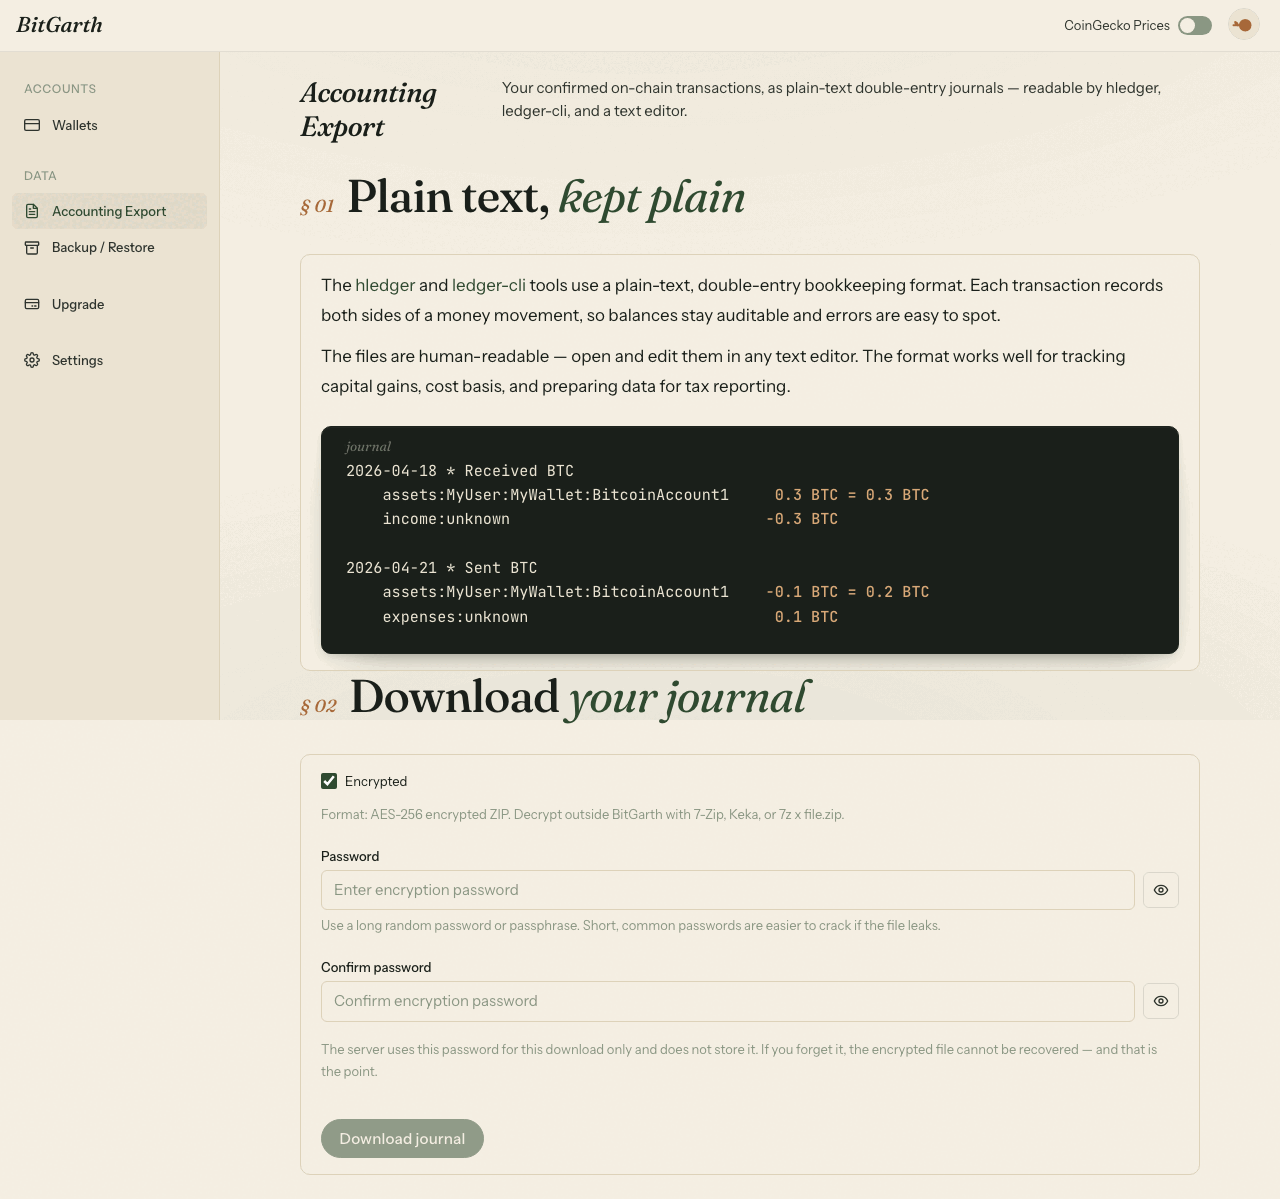
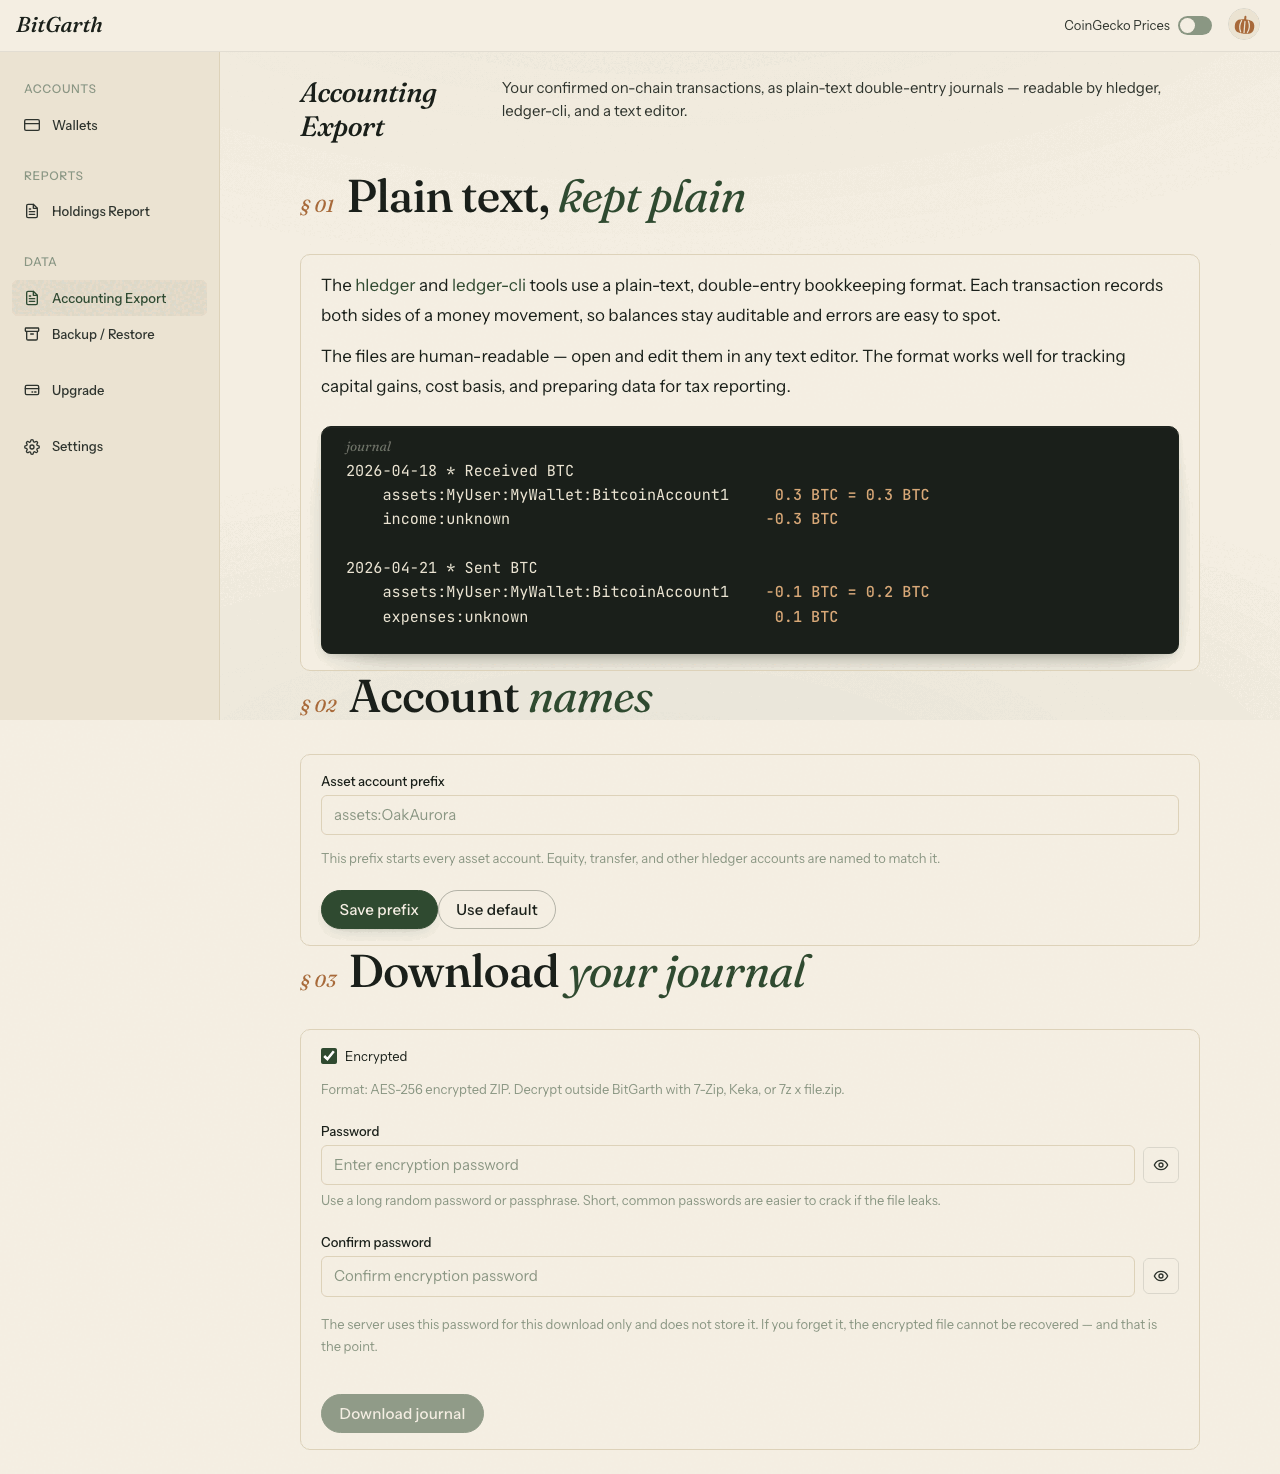
BitGarth v0.1.9

diff --git a/index.html b/index.html
@@ -878,10 +878,38 @@
       object-position: top;
       display: block;
     }
+    /* lead (aggregate) shot sits above the drilldown pair, same width */
+    .shot-lead { max-width: 60rem; margin-inline: auto; }
+    .shot-lead .shot-frame { aspect-ratio: 16 / 9; }
+
+    /* connector: encodes the drilldown from all-wallets to one wallet */
+    .shot-drill {
+      display: grid;
+      justify-items: center;
+      gap: 0.3rem;
+      margin: var(--space-4) 0;
+      color: color-mix(in srgb, var(--ink) 52%, transparent);
+    }
+    .shot-drill::before {
+      content: "";
+      width: 1px;
+      height: 1.5rem;
+      background: color-mix(in srgb, var(--ink) 20%, transparent);
+    }
+    .shot-drill-label {
+      font-family: var(--display);
+      font-style: italic;
+      font-size: 0.92rem;
+      letter-spacing: 0.01em;
+    }
+    .shot-drill svg { display: block; opacity: 0.75; }
+
     .shot-pair {
       display: grid;
       gap: var(--space-5);
       grid-template-columns: 1fr;
+      max-width: 60rem;
+      margin-inline: auto;
     }
     @media (min-width: 860px) {
       .shot-pair { grid-template-columns: 1fr 1fr; }
@@ -1611,19 +1639,49 @@
         </div>
 
         <div class="tabpanel" id="panel-shot-reports" role="tabpanel" aria-labelledby="tab-shot-reports" tabindex="0" hidden>
+          <figure class="shot shot-lead">
+            <div class="shot-bar" aria-hidden="true"><span class="dot"></span><span class="dot"></span><span class="dot"></span></div>
+            <button class="shot-frame" type="button" data-zoom
+                    aria-label="View larger: the 2024 holdings report across all wallets"
+                    data-webp="assets/screenshots/holdings-report-2024.webp"
+                    data-png="assets/screenshots/holdings-report-2024.png"
+                    data-cap="Holdings — every wallet, one number"
+                    data-alt="A 2024 holdings report totalling every wallet: €30,712 opening, €65,331 closing — up 112% on the year.">
+              <picture>
+                <source srcset="assets/screenshots/holdings-report-2024.webp" type="image/webp" />
+                <img src="assets/screenshots/holdings-report-2024.png" width="1280" height="720" loading="lazy" decoding="async"
+                     alt="A 2024 holdings report totalling every wallet: €30,712 opening, €65,331 closing — up 112% on the year." />
+              </picture>
+              <span class="zoom-cue" aria-hidden="true">
+                <svg viewBox="0 0 24 24" fill="none" width="18" height="18">
+                  <circle cx="11" cy="11" r="6.5" stroke="currentColor" stroke-width="1.4"/>
+                  <path d="M16 16l4.5 4.5" stroke="currentColor" stroke-width="1.4" stroke-linecap="round"/>
+                  <path d="M11 8.5v5M8.5 11h5" stroke="currentColor" stroke-width="1.4" stroke-linecap="round"/>
+                </svg>
+              </span>
+            </button>
+          </figure>
+
+          <div class="shot-drill" aria-hidden="true">
+            <span class="shot-drill-label">drill into any wallet</span>
+            <svg viewBox="0 0 16 16" width="15" height="15" fill="none">
+              <path d="M8 2.5v10M4 8.5l4 4 4-4" stroke="currentColor" stroke-width="1.3" stroke-linecap="round" stroke-linejoin="round"/>
+            </svg>
+          </div>
+
           <div class="shot-pair">
             <figure class="shot">
               <div class="shot-bar" aria-hidden="true"><span class="dot"></span><span class="dot"></span><span class="dot"></span></div>
               <button class="shot-frame" type="button" data-zoom
-                      aria-label="View larger: the 2024 wallet report"
+                      aria-label="View larger: Garth's Main Wallet, 2024"
                       data-webp="assets/screenshots/report-2024.webp"
                       data-png="assets/screenshots/report-2024.png"
-                      data-cap="2024 — a green year"
-                      data-alt="A 2024 wallet report showing opening and closing values with gains across every account.">
+                      data-cap="2024 — inside one wallet, a green year"
+                      data-alt="The 2024 report drilled into Garth's Main Wallet, showing Bitcoin, Ethereum and Monero accounts all up on the year.">
                 <picture>
                   <source srcset="assets/screenshots/report-2024.webp" type="image/webp" />
-                  <img src="assets/screenshots/report-2024.png" width="1280" height="771" loading="lazy" decoding="async"
-                       alt="A 2024 wallet report showing opening and closing values with gains across every account." />
+                  <img src="assets/screenshots/report-2024.png" width="1280" height="740" loading="lazy" decoding="async"
+                       alt="The 2024 report drilled into Garth's Main Wallet, showing Bitcoin, Ethereum and Monero accounts all up on the year." />
                 </picture>
                 <span class="zoom-cue" aria-hidden="true">
                   <svg viewBox="0 0 24 24" fill="none" width="18" height="18">
@@ -1637,15 +1695,15 @@
             <figure class="shot">
               <div class="shot-bar" aria-hidden="true"><span class="dot"></span><span class="dot"></span><span class="dot"></span></div>
               <button class="shot-frame" type="button" data-zoom
-                      aria-label="View larger: the 2025 wallet report"
+                      aria-label="View larger: Garth's Main Wallet, 2025"
                       data-webp="assets/screenshots/report-2025.webp"
                       data-png="assets/screenshots/report-2025.png"
                       data-cap="2025 — the same wallet, a red year"
-                      data-alt="A 2025 wallet report for the same wallet showing losses across every account.">
+                      data-alt="The same wallet a year on, in 2025, with every account down on the year.">
                 <picture>
                   <source srcset="assets/screenshots/report-2025.webp" type="image/webp" />
-                  <img src="assets/screenshots/report-2025.png" width="1280" height="771" loading="lazy" decoding="async"
-                       alt="A 2025 wallet report for the same wallet showing losses across every account." />
+                  <img src="assets/screenshots/report-2025.png" width="1280" height="740" loading="lazy" decoding="async"
+                       alt="The same wallet a year on, in 2025, with every account down on the year." />
                 </picture>
                 <span class="zoom-cue" aria-hidden="true">
                   <svg viewBox="0 0 24 24" fill="none" width="18" height="18">
@@ -1657,7 +1715,7 @@
               </button>
             </figure>
           </div>
-          <p class="shot-cap">The same wallet, two years — up and down.</p>
+          <p class="shot-cap">Every wallet in one number — then drill into any coin, any year. Up and down.</p>
         </div>
 
         <div class="tabpanel" id="panel-shot-exports" role="tabpanel" aria-labelledby="tab-shot-exports" tabindex="0" hidden>

diff --git a/releases.html b/releases.html
@@ -302,13 +302,56 @@
                Groups: highlights → new → fixed (omit any that are empty).
                ════════════════════════════════════════════════════════════════ -->
 
+          <article class="release" id="0.1.9">
+            <header class="release-head">
+              <h2 class="release-version">
+                0.1.9
+                <a class="release-anchor" href="#0.1.9" aria-label="Copy link to version 0.1.9">#</a>
+              </h2>
+              <span class="latest-tag">Latest</span>
+              <p class="release-date">5 July 2026</p>
+            </header>
+
+            <section class="change-group highlights">
+              <h3>Highlights</h3>
+              <p class="highlight">The new <em>Holdings Report</em> shows how every wallet moved over a date range you choose: opening value, closing value, and total change in one view.</p>
+              <p class="highlight">Wallet sync status now leads with the issue that matters most, and one click opens the exact sync record behind it.</p>
+              <p class="highlight">Hledger exports have their own settings view, with account-prefix controls that match how your ledger is named.</p>
+            </section>
+
+            <section class="change-group new">
+              <h3>New</h3>
+              <ul class="change-list">
+                <li>Open the Holdings Report from the Reports section to compare wallet values across a full year or a custom date range.</li>
+                <li>Name an account when you add it. Every add-account form — xpub, Bitcoin address, Ethereum address, and manual asset — now takes an optional name, and keeps auto-naming it for you if you leave the field blank.</li>
+                <li>Set an account prefix in the new hledger export settings before you export.</li>
+                <li>Add a price override on the free tier when a report is missing the price for a date.</li>
+              </ul>
+            </section>
+
+            <section class="change-group fixed">
+              <h3>Fixed</h3>
+              <ul class="change-list">
+                <li>Historical price lookups are steadier over daily ranges, and now back off instead of retrying hard when a provider asks BitGarth to slow down.</li>
+                <li>Long sync error messages stay fully readable — no more clipped or overflowing rows — and each sync row opens straight to its record.</li>
+                <li>The Holdings Report counts your manual assets alongside synced wallets, so the totals reflect everything you hold.</li>
+              </ul>
+            </section>
+
+            <section class="change-group notes">
+              <h3>Notes</h3>
+              <ul class="change-list">
+                <li>On the free tier the Holdings Report always covers a rolling nine-month window. Upgrade to see your full history.</li>
+              </ul>
+            </section>
+          </article>
+
           <article class="release" id="0.1.8">
             <header class="release-head">
               <h2 class="release-version">
                 0.1.8
                 <a class="release-anchor" href="#0.1.8" aria-label="Copy link to version 0.1.8">#</a>
               </h2>
-              <span class="latest-tag">Latest</span>
               <p class="release-date">3 July 2026</p>
             </header>
 
